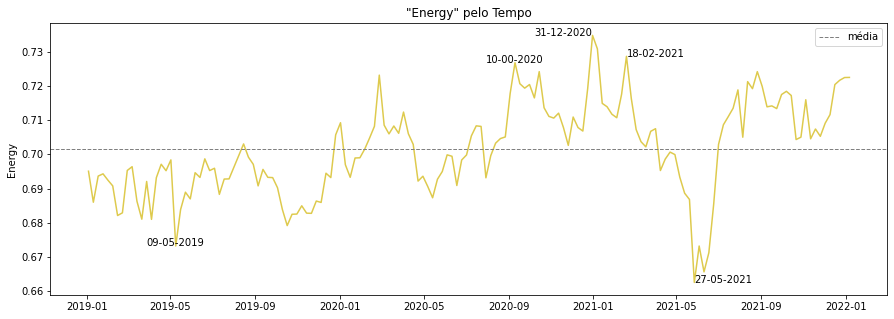
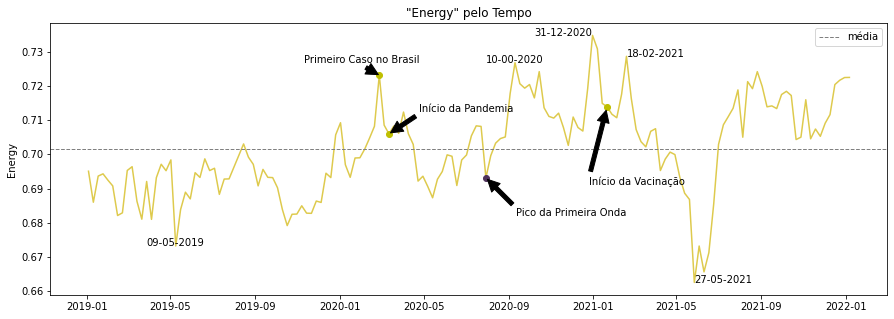
graficos poc 1

diff --git a/docs/index.html b/docs/index.html
@@ -96,47 +96,31 @@
             </div>
         </div>
 
-        <!-- <div class="container--lg pb1">
+        <div class="container--lg pb1">
             <div class="border--bottom grid-row grid-row--center" id="donwloads">
                 <div class=" grid-column mt3 mb2 order-2">
-                    <div class="border--bottom pb2 mb2">
+                    <div class="pb2 mb2">
                         <h2>Dados</h2>
-                        <h3>PPORTAL <a href="https://doi.org/10.5281/zenodo.5178063"><img
-                                    src="https://img.shields.io/badge/DOI-10.5281%2Fzenodo.5178063-437a67"
-                                    alt="DOI"></a> </h3>
-                        <h4>Public domain Portuguese-language literature Dataset</h4>
-                        <p align="justify">Neste projeto, usaremos o PPORTAL, um dataset aberto de literatura de língua
-                            portuguesa
-                            de domínio público. O <a href="https://sol.sbc.org.br/index.php/dsw/article/view/17416">PPORTAL</a> é composto por três bibliotecas digitais para obras de
-                            domínio
-                            público principalmente do Brasil e Portugal: <a href="https://www.dominiopublico.gov.br">Domínio Público</a>, <a href="https://projectoadamastor.org">Projecto Adamastor</a>, e <a href="https://www.literaturabrasileira.ufsc.br">Biblioteca Digital de Literatura de Países Lusófonos (BLPL)</a>. Tais informações heterogêneas foram integradas
-                            usando a API <a href="https://www.goodreads.com/">Goodreads</a> e uma abordagem de correspondência difusa, que resulta em 2.388 obras
-                            exclusivas. Os IDs das obras no conjunto de dados integrado permitem coletar informações
-                            adicionais de elementos essenciais do ecossistema da indústria do livro: obras, autores,
-                            leitores e
-                            resenhas. </p>
-                    </div>
+                        <h3>Spotify</h3>
+                        <p align="justify">Os dados utilizados nesse trabalho foram o  TOP Chart do Brasil semanal e diário no período de (2019-2021).
+                            Usou-se a <a href="https://charts.spotify.com/home">API do Spotify</a> que fornece os CSVs, contendo o nome da música, os artistas e posição no ranking.
+                            Para a primeira análise, utilizou-se também as features disponibilizadas pelo <a href="https://developer.spotify.com/discover/">Spotify for developers</a>, com foco
+                            nas relacionadas ao mood: danceability, valence e energy.
 
-                    <div class="inline-block mr1 no-mr-on-mobile" style="width:280px;max-width:100%">
-                        <div class="select mb1">
-                            <select id="filename">
-                                </option>
-                                <option value="https://zenodo.org/record/5178063/files/PPORTAL.zip?download=1">CSVs
-                                </option>
-                                <option value="https://zenodo.org/record/5178063/files/PPORTAL.dump.sql?download=1">Dump
-                                    SQL
-                            </select>
-                        </div>
-                    </div>
-                    <input type="button" onclick="window.location.href=document.getElementById('filename').value"
-                        value="Download" class="btn btn--secondary" />
+                            <ul align="left" style="margin-left: 30px;font-size:110%;">
+                                <li><b>Danceability: </b>quão dançável é uma música, variando de 0-1</li>
+                                <li><b>Valence: </b>mede a positividade da música, variando de 0-1</li>
+                                <li><b>Energy: </b>mede a energia da música, variando de 0-1</li>
+                            </ul>
 
+                        </p>
+                    </div>
                 </div>
                 <div class="grid-column mt3 mb2 order-1 reveal-on-scroll is-revealing">
-                    <img src="img/downloads.svg" alt="Usage data">
+                    <img src="img/spotify-1280x720-1.jpg" alt="Usage data">
                 </div>
             </div>
-        </div> -->
+        </div>
 
         <!-- Introduction -->
         <div class="container--lg pt1 ">
@@ -145,63 +129,77 @@
                     <h2>Análise das Features do Spotify</h2>
 
                     <p align="justify" style="font-size:110%;">
-                        Durante o POC 1 foi feito uma análise sobre as features disponibilizadas pelo próprio Spotify. São elas:
-                        <b>danceability</b>, <b>energy</b> e <b>valence</b>. 
+                        Durante o POC 1 foi feito uma análise sobre as features disponibilizadas pelo Spotify. Para isso, foram feitas séries
+                        temporais avaliando a mudança com o tempo dessas features.
                     </p>
                     <br>
-                    <!-- <ul align="left" style="margin-left: 30px;font-size:110%;">
-                        <li>O que torna um livro reconhecido?</li>
-                        <li>O que torna um livro popular?</li>
-                        <li>O que torna um livro interessante?</li>
-                    </ul> -->
                     <figure class="highcharts-figure">
                         <div id="seriesTemporais"></div>
                     </figure>
+                    <p align="justify" style="font-size:110%;">
+                        O gráfico acima mostra uma clara correlação entre <i>energy</i> e a <i>danceability</i>, mas também observamos um comportamento parecido entre todas 
+                        as efatures, especialmente no ano de 2021.
+                    </p>
+                    <br>
+                    <p align="justify" style="font-size:110%;">
+                        Com o objetivo de aprofundarmos nessa análise, foram feitos também gráficos referentes à variação diária dessas features, em alguns
+                        messes com datas chaves, como Março de 2020, que foi quando teve o primeiro caso no Brasil; Julho de 2020 correspondendo ao Pico da Primeira primeira
+                        onda no Brasil e em Janeiro de 2021, relativo ao início da vacinação.
+                    </p>
                 </div>
             </div>
         </div>
         
-        <div class="container pt1 mt2 text--gray align--center " id="features">
+        <div class="container pt1 mt2 align--center " id="features">
             <div class="grid-row">
                 <div class="grid-column span-one-second reveal-on-scroll is-revealing">
                     <div class="warpper">
                         <input class="radio" id="one" name="group" type="radio" checked>
                         <input class="radio" id="two" name="group" type="radio">
                         <input class="radio" id="three" name="group" type="radio">
+                        <input class="radio" id="four" name="group" type="radio">
                         <div class="tabbs">
-                            <label class="tabb" id="one-tabb" for="one">Danceability</label>
-                            <label class="tabb" id="two-tabb" for="two">Valence</label>
-                            <label class="tabb" id="three-tabb" for="three">Energy</label>
-                            
+                            <label class="tabb" id="one-tabb" for="one">Anual</label>
+                            <label class="tabb" id="two-tabb" for="two">Março de 2020</label>
+                            <label class="tabb" id="three-tabb" for="three">Julho de 2020</label>
+                            <label class="tabb" id="four-tabb" for="four">Janeiro de 2021</label>
                         </div>
                         <div class="panels">
                             <div class="panel" id="one-panel">
-                                <!-- <div class="panel-title">Why Learn CSS?</div> -->
-                                <p>Refere-se à importância de uma obra ser <b>considerada</b> e <b>avaliada</b> pelos
-                                    leitores. Pode ser medido através da <em>média de avaliações</em> de uma obra.</p>
-                                    <img src="img/danceability_semanal_datas.png" alt="Usage data" width="80%" style="display: block;margin: auto;">
+                                <img src="img/danceability_medias.png" alt="Usage data" width="80%" style="display: block;margin: auto;">
+                                <img src="img/valence_medias.png" alt="Usage data" width="80%" style="display: block;margin: auto;">
+                                <img src="img/energy_medias.png" alt="Usage data" width="80%" style="display: block;margin: auto;">
                             </div>
                             <div class="panel" id="two-panel">
-                                <!-- <div class="panel-title">Take-Away Skills</div> -->
-                                <p>Refere-se ao quanto uma obra foi <b>lida</b> e <b>avaliada</b> pelos usuários de forma
-                                    textual. Pode ser medida através do <em>total de resenhas textuais e avaliações</em> de uma obra.
-                                </p>
-                                <img src="../data/plots/valence_semanal_anual.png" alt="Usage data" width="80%" style="display: block;margin: auto;">
-
+                                <img src="img/danceability_marco.png" alt="Usage data" width="80%" style="display: block;margin: auto;">
+                                <img src="img/valence_marco.png" alt="Usage data" width="80%" style="display: block;margin: auto;">
+                                <img src="img/energy_marco.png" alt="Usage data" width="80%" style="display: block;margin: auto;">
                             </div>
                             <div class="panel" id="three-panel">
-                                <!-- <div class="panel-title">Note on Prerequisites</div> -->
-                                <p>Refere-se ao quanto os leitores consideram aquela obra como <b>favorita</b>, se <b>estão
-                                    lendo no momento</b> ou <b>pretendem lê-la</b>.</p>
-                                <img src="../data/plots/energy_semanal_datas.png" alt="Usage data" width="80%" style="display: block;margin: auto;">
+                                <img src="img/danceability_junho.png" alt="Usage data" width="80%" style="display: block;margin: auto;">
+                                <img src="img/valence_junho.png" alt="Usage data" width="80%" style="display: block;margin: auto;">
+                                <img src="img/energy_junho.png" alt="Usage data" width="80%" style="display: block;margin: auto;">
+                            </div>
+
+                            <div class="panel" id="four-panel">
+                                <img src="img/danceability_janeiro.png" alt="Usage data" width="80%" style="display: block;margin: auto;">
+                                <img src="img/valence_janeiro.png" alt="Usage data" width="80%" style="display: block;margin: auto;">
+                                <img src="img/energy_janeiro.png" alt="Usage data" width="80%" style="display: block;margin: auto;">
                             </div>
                         </div>
                     </div>
-                    <figure class="highcharts-figure">
-                        <div id="fa_diagram"></div>
-                    </figure>
                 </div>
             </div>
+            <br>
+            <p align="justify" style="font-size:110%;">
+                Podemos perceber uma queda nos valores durante a semana do dia 30/07/2020, que coicide com o Pico da Primeira Onda. Bem como, 
+                é possível perceber um aumento na <i>danceability</i> no início de 2021, coicidindo com o Início da Vacinação no país. Esses dados, 
+                quando comparados a 2019, apontam de fato, uma mudança na dançabilidade média nesses dois períodos.
+                Da mesma forma, podemos ver na distribuição da <i>valence</i> média pelo tempo,
+                valores abaixo da média após o início da pandemia no Brasil e valores mais altos com o início da vacinação. 
+                Esses resultados se assemelham aos mostrados aos gráficos anuais em que é possível observar, em especial, um aumento nas features
+                no começo de 2021, coicidindo com o período do início da vacinação no Brasil.
+            </p>
         </div>
 
         <!-- Introduction -->
@@ -246,17 +244,19 @@
             <div class="grid-column span-one-second reveal-on-scroll is-revealing">
                 <div class="tabs">
                     <input type="radio" name="tabs" id="tabone">
-                    <label for="tabone" id="tabone-content">Formato de Livros</label>
+                    <label for="tabone" id="tabone-content">Março 2020</label>
                     <div class="tab" id="tabone-content">
                         <div class="background-color-1">
-                            <figure class="highcharts-figure">
                                 <!-- <div id="bar1" style="min-width: 33%; height: 350px; float:left;"></div>
                                 <div id="bar13" style="min-width: 33%; height: 350px; float:left;"></div>
                                 <div id="bar7" style="min-width: 33%; height: 350px; float:left;"></div> -->
-                                <div id="bar14" style="min-width: 33%; height: 350px; float:left;"></div>
-                                <div id="bar8" style="min-width: 33%; height: 350px; float:left;"></div>
-                                <div id="bar2" style="min-width: 33%; height: 350px; float:left;"></div>
-                            </figure>
+                            <div style="min-width: 33%;">
+                                <img src="../data/plots/medias_marco_dataschaves.png" />
+                            </div>
+                            <div style="min-width: 33%; height:">
+                                <img src="../data/plots/valence_marco.png" />
+                            </div>
+                            <div style="min-width: 33%; height: 350px; float:left;"></div>
                         </div>
                     </div>
                 

diff --git a/docs/css/normalize.css b/docs/css/normalize.css
@@ -54,7 +54,7 @@ pre {
 a {
 	background-color: transparent;
 	-webkit-text-decoration-skip: objects;
-	color: #ca3078
+	color: #c770bb
 }
 
 a:hover {
@@ -481,7 +481,7 @@ html {
 }
 
 body {
-	background-color: #ffe8f3!important;
+	background-color: #dfe7f7!important;
 	color: #0e1c30;
 	line-height: 1.6rem;
 	margin: 0;
@@ -652,8 +652,8 @@ fieldset[disabled] a.btn {
 .container {
 	margin-left: auto;
 	margin-right: auto;
-	max-width: 900px;
-	width: 90%
+	/* max-width: 900px; */
+	width: 80%
 }
 
 .container--lg {
@@ -1389,31 +1389,31 @@ hr {
 }
 
 .border--full {
-	border-color: #CCC5B9;
+	border-color: #b9bdcc;
 	border-style: solid;
 	border-width: 1px
 }
 
 .border--top {
-	border-top-color: #CCC5B9;
+	border-top-color: #b9bdcc;
 	border-top-style: solid;
 	border-top-width: 1px
 }
 
 .border--right {
-	border-right-color: #CCC5B9;
+	border-right-color: #b9bdcc;
 	border-right-style: solid;
 	border-right-width: 1px
 }
 
 .border--bottom {
-	border-bottom-color: #CCC5B9;
+	border-bottom-color: #b9bdcc;
 	border-bottom-style: solid;
 	border-bottom-width: 1px
 }
 
 .border--left {
-	border-left-color: #CCC5B9;
+	border-left-color: #b9bdcc;
 	border-left-style: solid;
 	border-left-width: 1px
 }
@@ -2098,7 +2098,7 @@ input[type="number"] {
 	cursor: pointer;
 	padding: 10px 20px;
 	margin: 0px 2px;
-	background: #ffb95c;
+	background: #4078ad;
 	color: #FFFCF2;
 	font-weight: bold;
 	display: inline-block;
@@ -2148,16 +2148,18 @@ input[type="number"] {
 
 #one:checked~.panels #one-panel,
 #two:checked~.panels #two-panel,
-#three:checked~.panels #three-panel {
+#three:checked~.panels #three-panel,
+#four:checked~.panels #four-panel {
 	display: block
 }
 
 #one:checked~.tabbs #one-tabb,
 #two:checked~.tabbs #two-tabb,
-#three:checked~.tabbs #three-tabb {
+#three:checked~.tabbs #three-tabb,
+#four:checked~.tabbs #four-tabb {
 	background: #fffffff6;
-	color: #ffb95c;
-	border-top: 3px solid #ffb95c;
+	color: #4078ad;
+	border-top: 3px solid #4078ad;
 }
 
 .tabs {
@@ -2170,7 +2172,7 @@ input[type="number"] {
 	padding: 1rem 2rem;
 	margin-right: 0.2rem;
 	cursor: pointer;
-	background: #ffb95c;
+	background: #4078ad;
 	font-weight: bold;
 	transition: background ease 0.2s;
 }

diff --git a/docs/js/seriesTemporais.js b/docs/js/seriesTemporais.js
@@ -194,7 +194,7 @@ Highcharts.chart('seriesTemporais', {
             text: 'Semana'
         },
         categories: dates.map(date => {
-          return Highcharts.dateFormat('%e. %b', new Date(date).getTime());
+          return Highcharts.dateFormat('%e. %b %Y', new Date(date).getTime());
         }),
         label: {
           enabled: false
